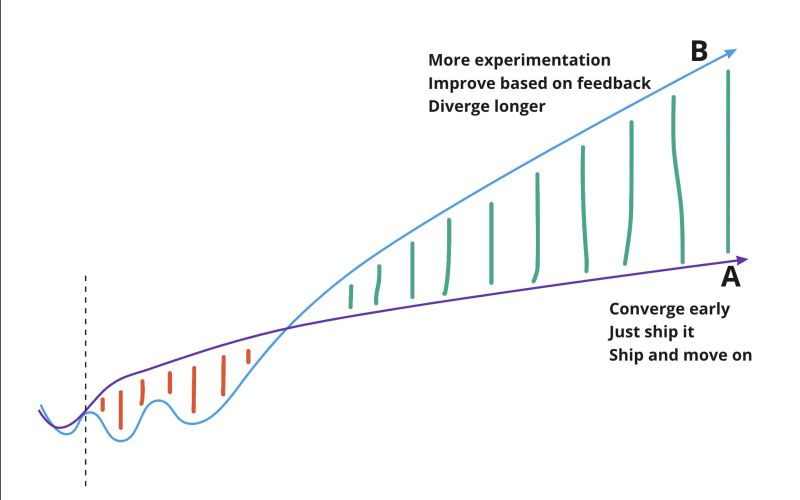
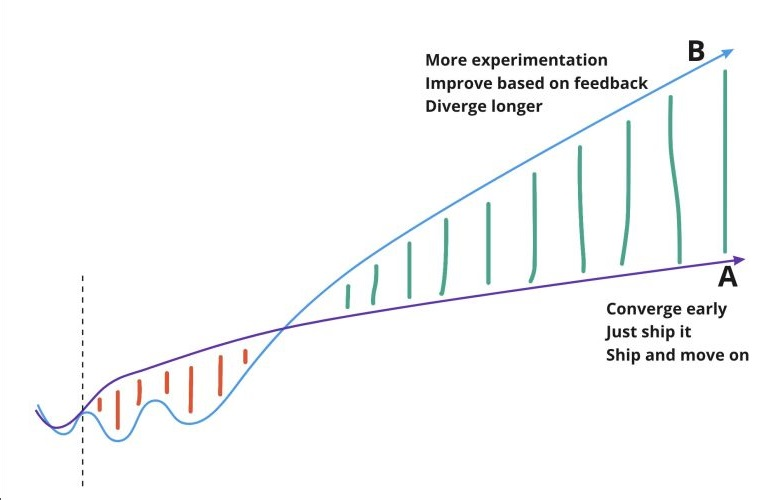
updated about and fixed black line in image

diff --git a/_pages/about.md b/_pages/about.md
@@ -9,6 +9,7 @@ permalink: /about/
 
 <!-- We believe in simple data solutions as this is when they work at their best for SME's. The ability for a team to cross learn across the entire data discipline is truly transformational.  -->
 
+***
 ## Why Were We Founded?
 
 To help organisations ***trust*** their data, become data driven and use this to grow 🚀
@@ -19,13 +20,13 @@ Data stacks and solutions can easily become ***complicated*** and time consuming
 
 ## How to Make Your Data Stack Help You?
 
-Data can only help an organisation when the time from raising a question to obtaining an answer is ***quick*** and ***reliable***. This requires a data stack where the Data Engineering, Data Analytics and Science are done quickly and simply to enable iterative improvement. This will encourage each sub area of Data Team to understand the other's, which will improve overall efficiency to find an answer.
+Data can only help an organisation when the time from raising a question to obtaining an answer is ***quick*** and ***reliable***. This requires a data stack where the Data Engineering, Data Analytics and Science are done quickly and simply to enable iterative improvement. This will encourage each sub area of you Data Team to understand the other's, which will improve overall efficiency to find an answer.
 
 Being able to do this quickly, will mean your data solution can't process trillions of rows. Which leads us onto our next catchphrase:
 
 > Build the data solution you need ***today***, not the one you need in two years time. 
 
-Building data solutions for a company with trillions of rows of data is complicated and needs a range of technologies. These cost a lot of money to build and maintain. It doesn't let you quickly Engineer and Analyse. When a company has small data volumes, the speed at which it an Engineer and Analyse it much more important. With speed you can begin to experiment and understand your product in more detail leading to better rewards. This approach needs data to fuel it!
+Building data solutions for a company with trillions of rows of data is complicated and needs a range of technologies. These cost a lot of money to build and maintain. It doesn't let you quickly Engineer and Analyse. When a company has small data volumes, the speed at which it an Engineer and Analyse, is much more important. With speed you can begin to experiment and understand your product in more detail leading to better rewards and happier customers. This approach needs data to fuel it but will drive your business growth!
 
 ![DataGrowth]({{site.baseurl}}/images/Experimentation_and_data_impact.jpg){:loading="lazy"}
 <!-- *Photo by [Harley Davidson](https://unsplash.com/photos/VhcxuEGNXo4) on [Unsplash](https://unsplash.com/)* -->
@@ -36,11 +37,11 @@ Building data solutions for a company with trillions of rows of data is complica
 
 We can help your organisation across a range of tasks for data across the company life-cycle. 
 
-With our recommended data stacks, they will let any curious Analyst or Scientist learn the Engineering aspect of Data. This can begin to unlock some powerful analytics for your organisations! They can discover a new data source, table or API and make the data available to themselves. Provide an answer, receive and iterate as required.
-
 ### Start Up or Young Company with No Data-Stack
 
 We have both an AWS stack and an Azure stack that we have used first-hand and recommend. It is a simple stack that is infinitely better than a complicated solution at this stage of the company. 
+
+With our recommended data stacks, they will let any curious Analyst or Scientist learn the Engineering aspect of Data. This can begin to unlock some powerful analytics for your organisation! They can discover a new data source, table or API and make the data available to themselves. Provide an answer, receive feedback and iterate as required.
 
 ### We Already Have a Data-Stack
 
@@ -50,7 +51,7 @@ We can meet with you, conduct a review of the data-stack and technologies used a
 
 With over 10 years of working across the data space in numerous roles (Business Analyst, Data Engineer, Data Analyst, Product Owner and Strategic adviser) there is a lot of information to share! 
 
-The above is a summary of some our lessons Learned and we are committed to posting our findings in more detail on our blog page.
+The above is a summary of some our lessons learned and we are committed to posting our findings in more detail on our blog page.
 
 ***
 
